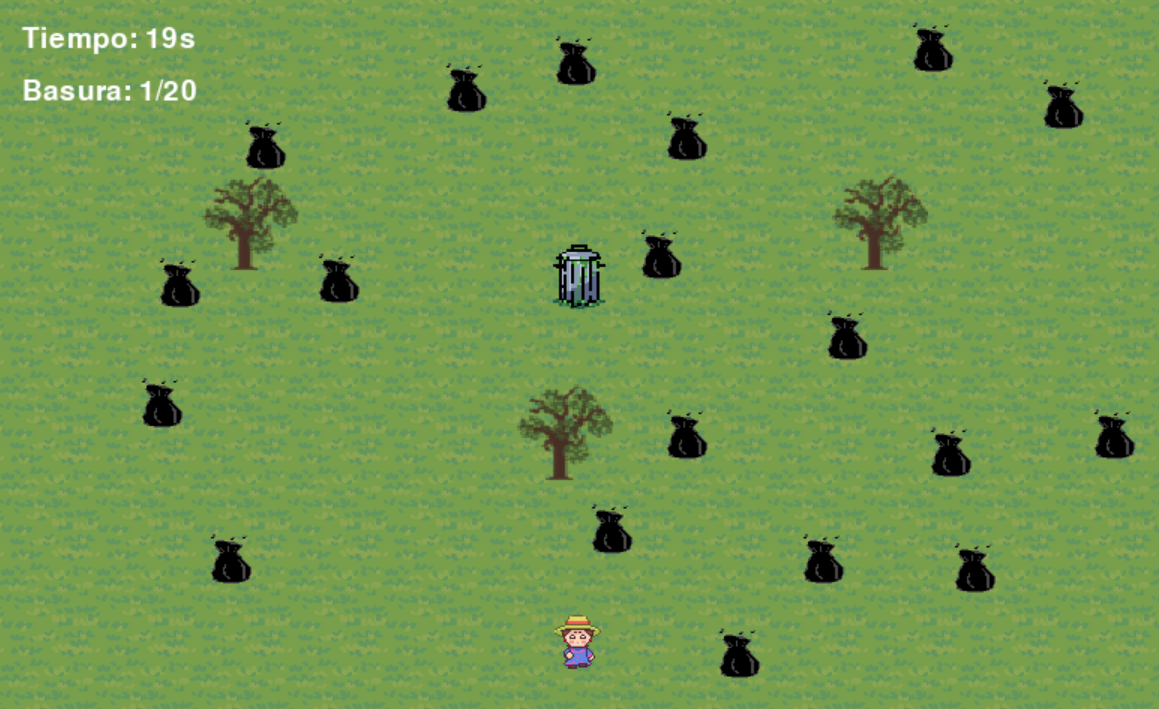
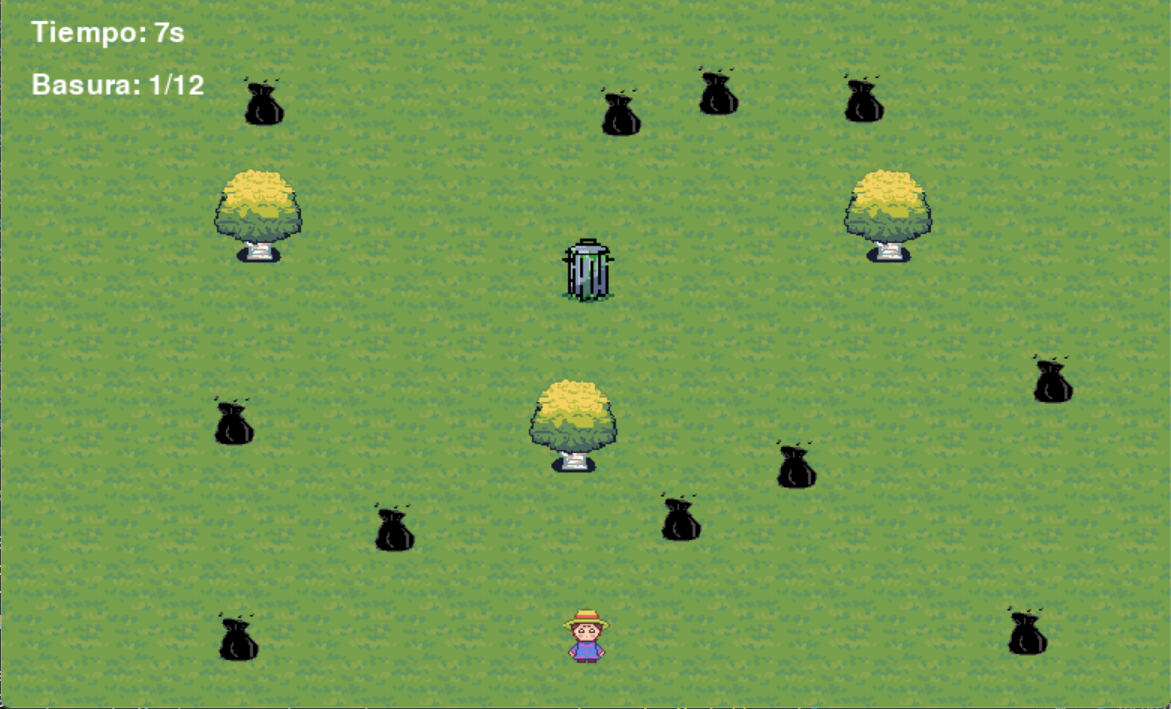
parche

diff --git a/world_nivel3.py b/world_nivel3.py
@@ -25,7 +25,7 @@ class World:
         )
 
         tree_img = pygame.image.load(
-            os.path.join("assets", "images", "objects", "treedes1.png")
+            os.path.join("assets", "images", "objects", "treeC.png")
         ).convert_alpha()
         tree_img = pygame.transform.scale(
             tree_img, (constants.TREES, constants.TREES)
